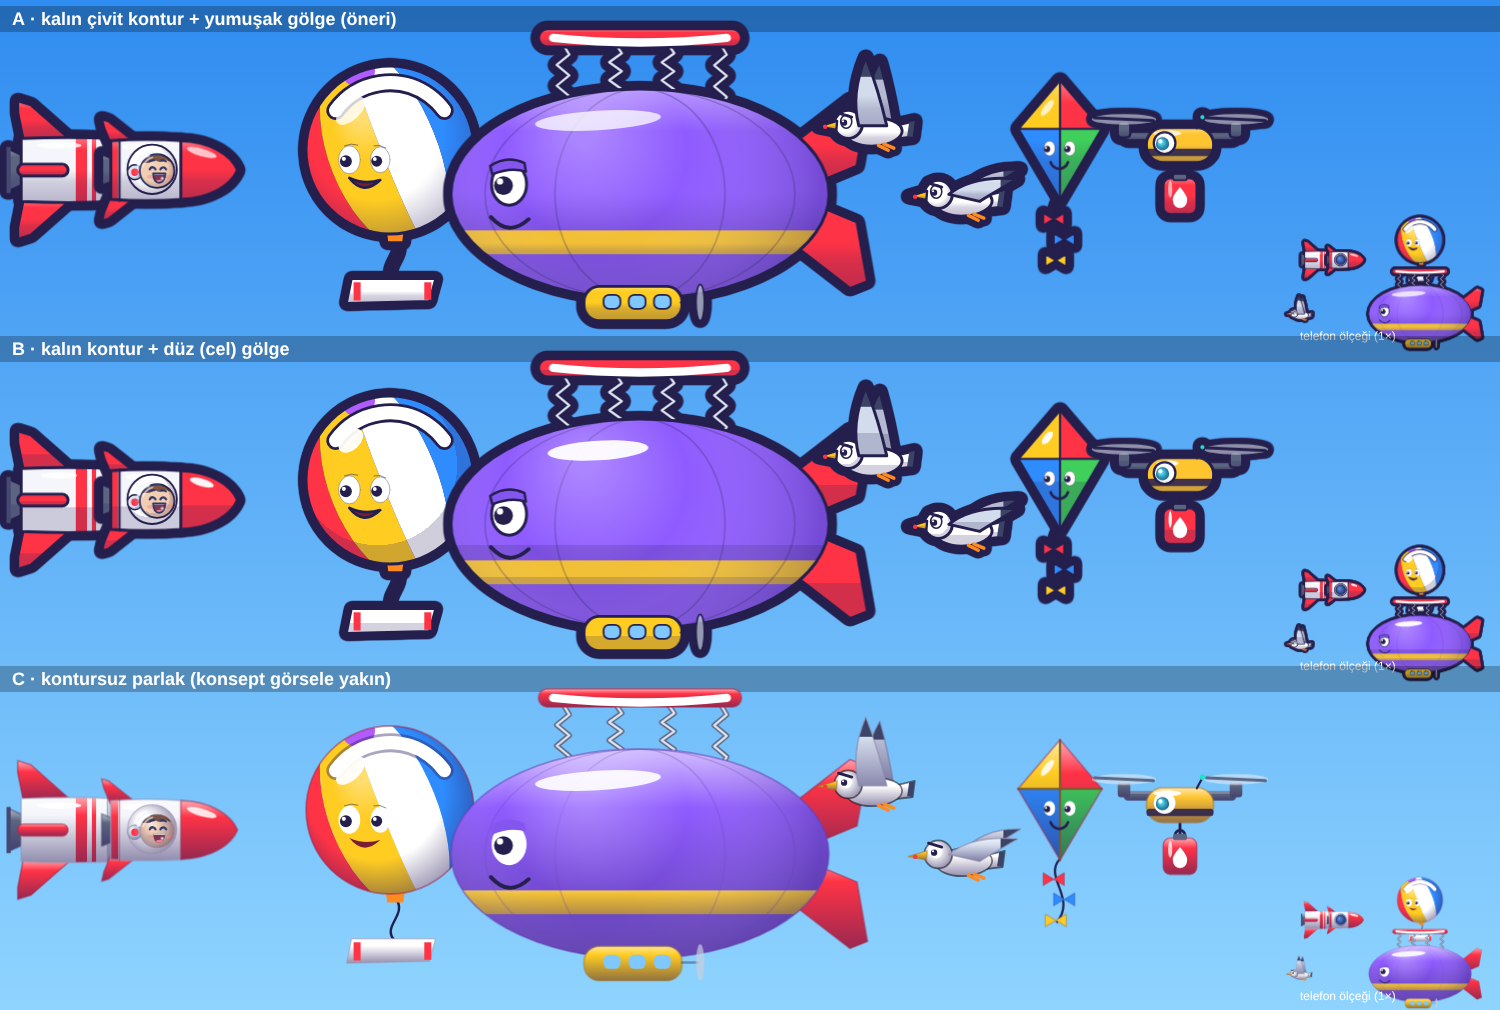
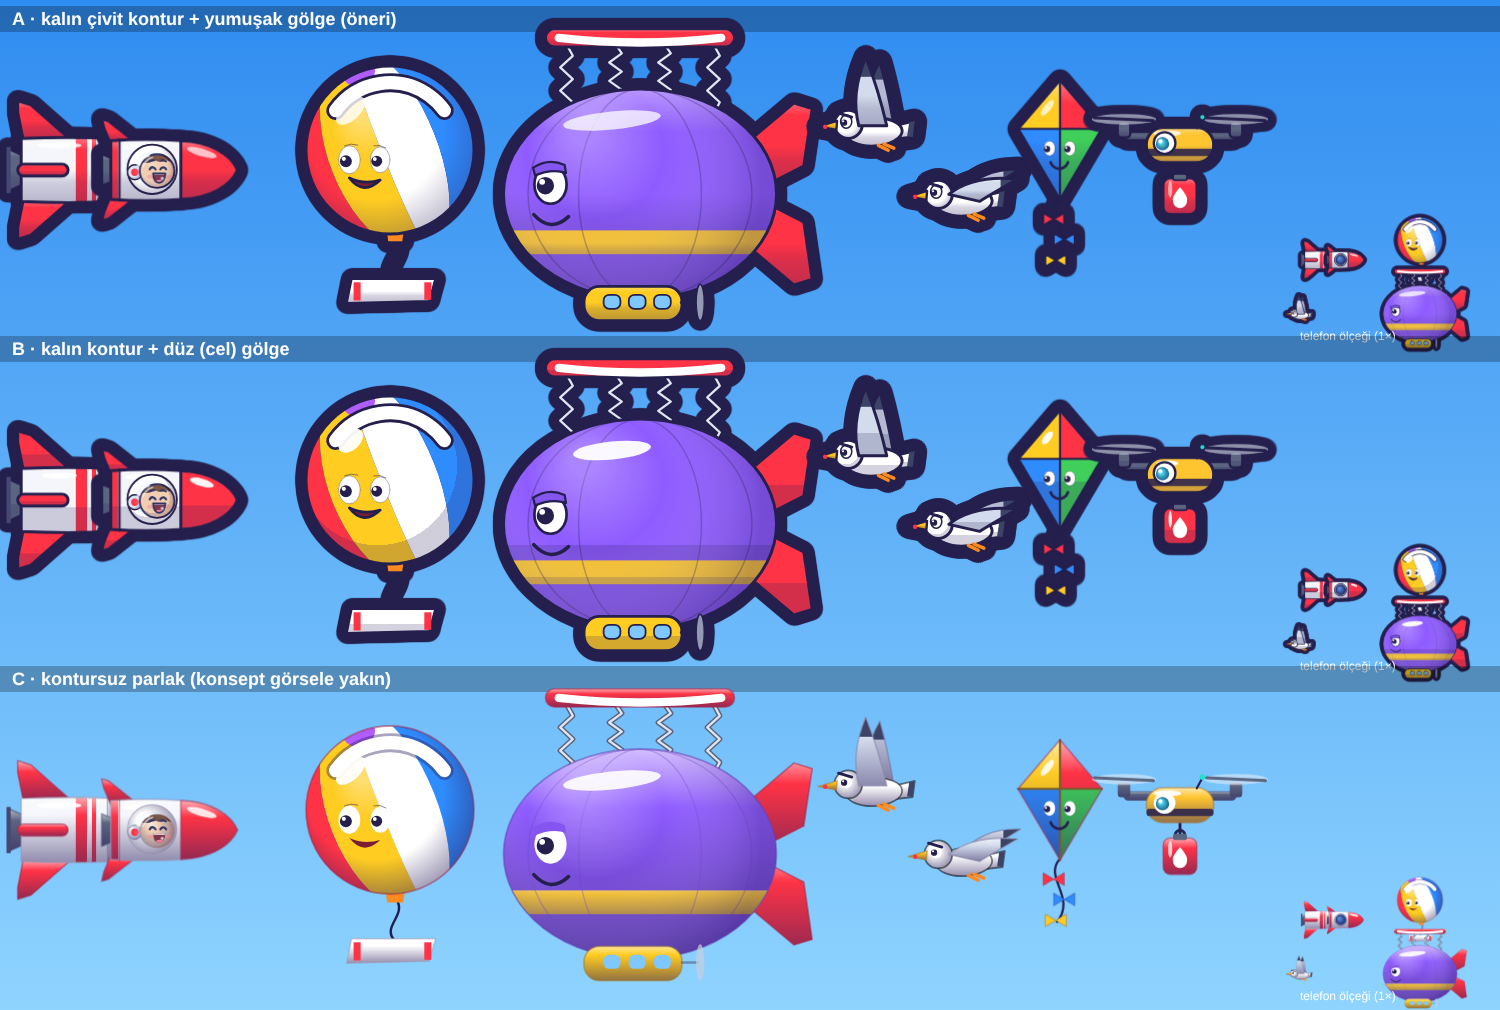
Kararlar: B1 görsel dilim kararları
Claude-Session: https://claude.ai/code/session_01FT8SNz1Hsnax27do6pkEGm

diff --git a/oyun/b1_gorsel/uretim/cizim.js b/oyun/b1_gorsel/uretim/cizim.js
@@ -235,15 +235,15 @@ function balon(c, ifade) {
 
 // ---------------------------------------------------------------- ZEPLİN (trambolin sırtlı, r = 22, burnu sola)
 function zeplin(c, ifade, renk = RENK.mor) {
-  const X = 27, Y = 15, cy = 2;
+  const X = 19.5, Y = 15, cy = 2;
   // kuyruk kanatları
   for (const s of [-1, 1]) {
-    const p = [19, cy + 5 * s, 30, cy + 13.5 * s, 32.5, cy + 12.5 * s, 31, cy + 4 * s, 25, cy + 1.5 * s];
+    const p = [12.5, cy + 5 * s, 22, cy + 13 * s, 24.6, cy + 12.2 * s, 23.4, cy + 4 * s, 18.5, cy + 1.5 * s];
     poli(c, p); dol(c, dikey(c, RENK.kirmizi, cy - 14 * (s < 0), cy + 14 * (s > 0))); cizgi(c, IL, RENK.kirmizi);
   }
   // trambolin ayakları (yaylar)
   c.lineJoin = 'round';
-  for (const x of [-11, -3.5, 4, 11.5]) {
+  for (const x of [-10.5, -3.5, 3.5, 10.5]) {
     const yb = cy - Y * Math.sqrt(1 - (x / X) ** 2) + 1.2;
     c.beginPath(); c.moveTo(x, yb); const n = 6, h = (yb - (-19.4)) / n;
     for (let i = 1; i <= n; i++) c.lineTo(x + (i === n ? 0 : i % 2 ? 0.9 : -0.9), yb - h * i);
@@ -258,10 +258,10 @@ function zeplin(c, ifade, renk = RENK.mor) {
   const g = c.createRadialGradient(-8, cy - 9, 2, -4, cy - 2, X * 1.1); g.addColorStop(0, 'rgba(255,255,255,.25)'); g.addColorStop(0.4, 'rgba(255,255,255,0)'); g.addColorStop(1, 'rgba(42,29,92,.25)'); c.fillStyle = g; c.fillRect(-X, cy - Y, 2 * X, 2 * Y);
   c.restore();
   elips(c, 0, cy, X, Y); cizgi(c, IL, renk);
-  parla(c, -6, cy - 10.5, 9, 1.4, -0.06, 0.75);
+  parla(c, -4, cy - 10.5, 7, 1.3, -0.1, 0.75);
   // trambolin minderi (şekil kodu: üstte beyaz yay şeridi)
-  c.beginPath(); c.roundRect(-14.5, -21.6, 29, 2.6, 1.3); dol(c, dikey(c, RENK.kirmizi, -21.6, -19)); cizgi(c, IL, RENK.kirmizi);
-  c.beginPath(); c.moveTo(-12.4, -20.3); c.quadraticCurveTo(0, -19.0, 12.4, -20.3); c.strokeStyle = '#fff'; c.lineWidth = 1.2; c.lineCap = 'round'; c.stroke();
+  c.beginPath(); c.roundRect(-13.5, -21.6, 27, 2.6, 1.3); dol(c, dikey(c, RENK.kirmizi, -21.6, -19)); cizgi(c, IL, RENK.kirmizi);
+  c.beginPath(); c.moveTo(-11.6, -20.3); c.quadraticCurveTo(0, -19.0, 11.6, -20.3); c.strokeStyle = '#fff'; c.lineWidth = 1.2; c.lineCap = 'round'; c.stroke();
   // gondol
   c.beginPath(); c.roundRect(-8, cy + 13.2, 14, 4.9, 2.2); dol(c, dikey(c, RENK.sari, cy + 13, cy + 18)); cizgi(c, IL, RENK.sari);
   for (const x of [-5.2, -1.6, 2]) { c.beginPath(); c.roundRect(x, cy + 14.4, 2.4, 2, 0.8); dol(c, '#7fc8ff'); cizgi(c, IL * 0.6); }
@@ -269,7 +269,7 @@ function zeplin(c, ifade, renk = RENK.mor) {
   c.beginPath(); c.moveTo(6, cy + 15.5); c.lineTo(8.2, cy + 15.5); cizgi(c, 0.6, RENK.koyuMetal);
   elips(c, 8.6, cy + 15.5, 0.6, 2.6); c.save(); c.globalAlpha = 0.7; dol(c, '#c6cede'); c.restore(); cizgi(c, IL * 0.6);
   // yüz (burun, sola)
-  c.save(); c.translate(-18.5, cy - 1);
+  c.save(); c.translate(-12.6, cy - 1); c.scale(0.92, 0.92);
   const k = v => v;
   if (ifade === 'ezik') {
     c.beginPath(); c.moveTo(-2.6, -0.8); c.quadraticCurveTo(0, 0.8, 2.2, -0.9); c.strokeStyle = INK; c.lineWidth = 0.6; c.lineCap = 'round'; c.stroke();
@@ -397,7 +397,6 @@ function toz(c, kare) {   // sekme tozu / duman puf'u: 4 kare, büyür ve dağı
   c.beginPath(); for (const [x, y, s] of top) { c.moveTo(x + s, y); c.arc(x, y, s, 0, 6.283); } dol(c, '#c8c3ea');
   c.save(); c.clip(); c.beginPath(); for (const [x, y, s] of top) { c.moveTo(x - 0.3 + s * 0.85, y - 0.5); c.arc(x - 0.3, y - 0.5, s * 0.85, 0, 6.283); } dol(c, '#ffffff'); c.restore();
   c.beginPath(); for (const [x, y, s] of top) { c.moveTo(x + s, y); c.arc(x, y, s, 0, 6.283); }
-  if (ST.kontur) { c.strokeStyle = INK; c.lineWidth = 0.35 * a; c.globalCompositeOperation = 'destination-over'; c.stroke(); c.globalCompositeOperation = 'source-over'; }
   c.globalAlpha = 1;
 }
 function yildiz5(c, x, y, R, r, rot) { c.beginPath(); for (let i = 0; i < 10; i++) { const a = rot + i * Math.PI / 5 - Math.PI / 2, q = i % 2 ? r : R; c.lineTo(x + Math.cos(a) * q, y + Math.sin(a) * q); } c.closePath(); }
@@ -447,57 +446,77 @@ function balonParca(c) {
 
 // ---------------------------------------------------------------- ARKA PLAN
 function bulut(c, w, h, tohum, uzak) {
-  const r = rastgele(tohum), top = [];
-  const n = Math.round(w / h * 2.2);
-  for (let i = 0; i < n; i++) {
-    const t = (i + 0.5) / n, x = (t - 0.5) * w * 0.86, tepe = Math.sin(Math.PI * t) ** 0.7;
-    const s = h * (0.28 + 0.34 * tepe) * (0.85 + 0.3 * r());
-    top.push([x, h * 0.5 - s, s]);
+  const r = rastgele(tohum);
+  if (uzak) {   // uzak katman: yassı, lavanta-beyaz şeritler (yakın kümülüslerden farklı)
+    const el = [];
+    for (let i = 0; i < 5; i++) el.push([(i / 4 - 0.5) * w * 0.5 + (r() - 0.5) * w * 0.08, (r() - 0.5) * h * 0.4, w * (0.12 + r() * 0.1), h * (0.22 + r() * 0.16)]);
+    c.beginPath(); for (const [x, y, rx, ry] of el) { c.moveTo(x + rx, y); c.ellipse(x, y, rx, ry, 0, 0, 6.283); }
+    const g = c.createLinearGradient(0, -h * 0.5, 0, h * 0.5); g.addColorStop(0, '#fbf8ff'); g.addColorStop(1, '#d9d2f0'); c.fillStyle = g; c.fill();
+    return;
   }
-  top.push([0, h * 0.25, h * 0.4]);
-  const yol = (dx, dy, k) => { c.beginPath(); for (const [x, y, s] of top) { c.moveTo(x + dx + s * k, y + dy); c.arc(x + dx, y + dy, s * k, 0, 6.283); } c.rect(-w * 0.43, h * 0.15, w * 0.86, h * 0.35); };
-  const golge = uzak ? '#cfe0f6' : '#b9cdf2', isik = uzak ? '#f4f9ff' : '#ffffff';
-  yol(0, 0, 1); dol(c, golge);
-  c.save(); yol(0, 0, 1); c.clip(); yol(-h * 0.04, -h * 0.13, 0.93); dol(c, isik);
-  if (!uzak) { yol(-h * 0.08, -h * 0.2, 0.75); c.save(); c.globalAlpha = 0.6; dol(c, '#ffffff'); c.restore(); }
-  c.restore();
+  const top = [], n = Math.max(3, Math.round(w / h * 1.6));
+  for (let i = 0; i < n; i++) top.push([((i + 0.5) / n - 0.5) * w * 0.8, h * 0.18, h * 0.3 * (0.9 + 0.2 * r())]);
+  for (let i = 0; i < n - 1; i++) { const t = (i + 1) / n, tepe = Math.sin(Math.PI * t) ** 0.6, sx = h * (0.3 + 0.32 * tepe) * (0.85 + 0.3 * r()); top.push([(t - 0.5) * w * 0.8, h * 0.18 - sx * 0.75, sx]); }
+  const yol = (dx, dy, k) => { c.beginPath(); for (const [x, y, s] of top) { c.moveTo(x + dx + s * k, y + dy); c.arc(x + dx, y + dy, s * k, 0, 6.283); } };
+  yol(0, 0, 1); dol(c, '#c4d8f6');
+  c.save(); yol(0, 0, 1); c.clip(); yol(-h * 0.04, -h * 0.12, 0.92); dol(c, '#ffffff');
+  yol(-h * 0.08, -h * 0.2, 0.72); c.save(); c.globalAlpha = 0.55; dol(c, '#ffffff'); c.restore(); c.restore();
 }
-function zemin(c, W) {   // yatayda döşenebilir tarla + tepeler: y 0 = yer; üstte tepeler, altta tarlalar
-  const T = (x, ks) => ks.reduce((s, [a, k, f]) => s + a * Math.sin(2 * Math.PI * k * x / W + f), 0);
+function zemin(c, W) {   // yatayda döşenebilir: tüm dalgalar W'nin tam katı periyotlu
+  const T = (x, ks) => ks.reduce((t, [a, k, f]) => t + a * Math.sin(2 * Math.PI * k * x / W + f), 0);
   const tepe = (ks, taban, renk1, renk2) => {
     c.beginPath(); c.moveTo(0, 5); for (let x = 0; x <= W; x += 1) c.lineTo(x, taban - T(x, ks)); c.lineTo(W, 5); c.closePath();
-    const g = c.createLinearGradient(0, -14, 0, 2); g.addColorStop(0, renk1); g.addColorStop(1, renk2); c.fillStyle = g; c.fill();
-    c.beginPath(); for (let x = 0; x <= W; x += 1) c.lineTo(x, taban - T(x, ks)); c.strokeStyle = ko(renk2, 0.35); c.lineWidth = 0.5; c.stroke();
+    const g = c.createLinearGradient(0, taban - 10, 0, 3); g.addColorStop(0, renk1); g.addColorStop(1, renk2); c.fillStyle = g; c.fill();
+    c.beginPath(); for (let x = 0; x <= W; x += 1) c.lineTo(x, taban - T(x, ks)); c.strokeStyle = ko(renk2, 0.3); c.lineWidth = 0.45; c.stroke();
   };
-  tepe([[6, 2, 0.4], [3, 5, 1.3], [1.5, 9, 2]], -6, '#8fe08a', '#5cc463');
-  // uzak ağaçlar ve ev
-  const r = rastgele(5);
-  for (let i = 0; i < 9; i++) {
-    const x = (i + r() * 0.6) * W / 9, y = -T(x, [[3, 3, 0.2], [1.2, 7, 1]]) - 1.2;
-    c.fillStyle = '#7a4a2a'; c.fillRect(x - 0.3, y - 0.2, 0.6, 2.2);
-    daire(c, x, y - 1.6, 1.8 + r()); c.fillStyle = '#2fa64a'; c.fill(); c.strokeStyle = '#1d6b36'; c.lineWidth = 0.35; c.stroke();
+  const agacKume = (x, y, n, r) => {
+    for (let i = 0; i < n; i++) { const dx = (i - (n - 1) / 2) * r * 1.3, dy = (i % 2) * r * 0.35, rr = r * (0.85 + 0.3 * ((i * 7) % 3) / 2);
+      c.fillStyle = '#7a5a3a'; c.fillRect(x + dx - 0.25, y + dy - 0.2, 0.5, 1.6);
+      daire(c, x + dx, y + dy - rr * 0.9, rr); c.fillStyle = '#6fa868'; c.fill(); c.strokeStyle = '#3f6f48'; c.lineWidth = 0.35; c.stroke();
+      daire(c, x + dx - rr * 0.3, y + dy - rr * 1.15, rr * 0.4); c.fillStyle = '#8fc082'; c.fill(); }
+  };
+  tepe([[6, 2, 0.4], [3, 5, 1.3], [1.5, 9, 2]], -6, '#b4d7a2', '#8fbf84');
+  const r = rastgele(5), arka = [[3, 3, 0.2], [1.2, 7, 1]];
+  for (let i = 0; i < 6; i++) { const x = (i + 0.2 + r() * 0.6) * W / 6; agacKume(x, -T(x, arka) - 0.6, 2 + (i % 3), 1.4 + r() * 0.5); }
+  const ex_ = W * 0.62, ey_ = -T(W * 0.62, arka) - 0.6;
+  c.fillStyle = '#e8846f'; c.fillRect(ex_ - 3, ey_ - 3.6, 6, 3.6); c.strokeStyle = INK; c.lineWidth = 0.3; c.strokeRect(ex_ - 3, ey_ - 3.6, 6, 3.6);
+  poli(c, [ex_ - 3.6, ey_ - 3.5, ex_, ey_ - 6.6, ex_ + 3.6, ey_ - 3.5]); dol(c, '#9a5a48'); cizgi(c, 0.3);
+  c.fillStyle = '#fff'; c.fillRect(ex_ - 0.8, ey_ - 2.4, 1.6, 2.4);
+  tepe([[2.2, 3, 0.2], [1.2, 7, 1], [0.5, 13, 0.3]], 0, '#a2cf92', '#7fb57a');
+  // tarlalar: dalgalı sınırlı şeritler, her şerit eğri ayraçlarla parsellere bölünür
+  const renkler = ['#a3c98f', '#c3d39a', '#d9d0a0', '#94bf88', '#b9cf9c', '#cfc795'];
+  const sinir = (k, x) => { let y = 1.5; for (let i = 0; i < k; i++) y += 4 + i * 1.7; return y + (k ? 1.6 * Math.sin(2 * Math.PI * (k % 3 + 1) * x / W + k) : 0); };
+  for (let k = 0; k < 9; k++) {
+    const n = 3 + (k % 3), ofs = r();
+    for (let p = 0; p < n; p++) {
+      const xa = ((p + ofs) / n) * W, xb = ((p + 1 + ofs) / n) * W;
+      c.beginPath();
+      for (let x = xa; x <= xb + 0.01; x += 2) c.lineTo(x, sinir(k, x));
+      for (let x = xb; x >= xa - 0.01; x -= 2) c.lineTo(x + 1.5 * Math.sin((x - xb) * 0.2 + k), sinir(k + 1, x));
+      c.closePath(); c.fillStyle = renkler[(k * 2 + p) % renkler.length]; c.fill();
+      // sürüm izleri
+      c.save(); c.clip(); c.strokeStyle = 'rgba(70,110,60,.18)'; c.lineWidth = 0.3;
+      for (let j = 1; j < 6; j++) { c.beginPath(); for (let x = xa - 2; x <= xb + 2; x += 3) c.lineTo(x, lerp(sinir(k, x), sinir(k + 1, x), j / 6)); c.stroke(); }
+      c.restore();
+      if (xb > W) { c.save(); c.translate(-W, 0); c.beginPath(); for (let x = xa; x <= xb + 0.01; x += 2) c.lineTo(x, sinir(k, x)); for (let x = xb; x >= xa - 0.01; x -= 2) c.lineTo(x + 1.5 * Math.sin((x - xb) * 0.2 + k), sinir(k + 1, x)); c.closePath(); c.fillStyle = renkler[(k * 2 + p) % renkler.length]; c.fill(); c.restore(); }
+    }
+    c.beginPath(); for (let x = 0; x <= W; x += 2) c.lineTo(x, sinir(k + 1, x)); c.strokeStyle = '#7fa871'; c.lineWidth = 0.5; c.stroke();
   }
-  const ex = W * 0.62, ey = -T(W * 0.62, [[3, 3, 0.2], [1.2, 7, 1]]) - 0.6;
-  c.fillStyle = '#ff5a4a'; c.fillRect(ex - 3, ey - 3.6, 6, 3.6); c.strokeStyle = INK; c.lineWidth = 0.3; c.strokeRect(ex - 3, ey - 3.6, 6, 3.6);
-  poli(c, [ex - 3.6, ey - 3.5, ex, ey - 6.6, ex + 3.6, ey - 3.5]); dol(c, '#8a3a2a'); cizgi(c, 0.3);
-  c.fillStyle = '#fff'; c.fillRect(ex - 0.8, ey - 2.4, 1.6, 2.4);
-  tepe([[2.2, 3, 0.2], [1.2, 7, 1], [0.5, 13, 0.3]], 0, '#6bd36a', '#3fb34f');
-  // tarlalar (yer altı bandı, perspektifsiz şeritler)
-  const renkler = ['#5cc463', '#8fd65a', '#ffd45a', '#4fb85a', '#b9e06a', '#f2c14e'];
-  let y = 1.5, sat = 0;
-  while (y < 90) {
-    const h = 3 + sat * 1.4; let x = 0, j = sat * 3;
-    while (x < W) { const w = W / (4 + (sat % 3)); c.fillStyle = renkler[(j++) % renkler.length]; c.fillRect(x, y, w + 0.2, h + 0.2);
-      c.strokeStyle = 'rgba(40,90,40,.25)'; c.lineWidth = 0.3; for (let k = 1; k < h / 1.2; k++) { c.beginPath(); c.moveTo(x, y + k * 1.2); c.lineTo(x + w, y + k * 1.2); c.stroke(); }
-      x += w; }
-    c.fillStyle = '#3f9a45'; c.fillRect(0, y + h - 0.3, W, 0.6);
-    y += h; sat++;
-  }
+  // yol (kıvrımlı, döşenebilir)
+  const yol = x => 16 + 5 * Math.sin(2 * Math.PI * 2 * x / W + 0.7) + 2 * Math.sin(2 * Math.PI * 5 * x / W);
+  c.beginPath(); for (let x = 0; x <= W; x += 1) c.lineTo(x, yol(x)); c.strokeStyle = '#b8a77f'; c.lineWidth = 3.2; c.stroke(); c.strokeStyle = '#e9dfc4'; c.lineWidth = 2.4; c.stroke();
+  // tarla aralarında ağaç kümeleri
+  for (let i = 0; i < 5; i++) { const x = (i + 0.5) * W / 5 + 7, k = 2 + (i % 4) * 2; agacKume(x, sinir(k, x) + 0.6, 2 + (i % 2), 1.5); }
 }
-function uzakTepe(c, W) {
-  const T = (x) => 5 * Math.sin(2 * Math.PI * 2 * x / W + 1) + 3 * Math.sin(2 * Math.PI * 5 * x / W) + 1.5 * Math.sin(2 * Math.PI * 11 * x / W + 2);
-  c.beginPath(); c.moveTo(0, 30); for (let x = 0; x <= W; x += 1) c.lineTo(x, -T(x) - 2); c.lineTo(W, 30); c.closePath();
-  const g = c.createLinearGradient(0, -12, 0, 20); g.addColorStop(0, '#9fd0e8'); g.addColorStop(1, '#bfe6f2'); c.fillStyle = g; c.fill();
+function lerp(a, b, t) { return a + (b - a) * t; }
+function uzakTepe(c, W) {   // soluk mor-yeşil tepe siluetleri (deniz değil); alt kısım sahnede sisle zemine erir
+  const sirt = (ks, taban, ust, alt) => {
+    const T = (x) => ks.reduce((t, [a, k, f]) => t + a * Math.sin(2 * Math.PI * k * x / W + f), 0);
+    c.beginPath(); c.moveTo(0, 30); for (let x = 0; x <= W; x += 1) c.lineTo(x, taban - T(x)); c.lineTo(W, 30); c.closePath();
+    const g = c.createLinearGradient(0, taban - 12, 0, 26); g.addColorStop(0, ust); g.addColorStop(1, alt); c.fillStyle = g; c.fill();
+  };
+  sirt([[6, 2, 1], [3, 5, 0], [1.5, 11, 2]], -8, '#b3a9da', '#c9c8e0');
+  sirt([[4, 3, 0.4], [2, 7, 1.1], [1, 13, 0.2]], -1, '#9fbfa6', '#bcd0c0');
 }
 function rampa(c) {   // rampa: ray (−76.8, 0) → (0, 60) dünya; sprite'ta y aşağı
   const bx = -76.8;
@@ -523,39 +542,40 @@ function rampa(c) {   // rampa: ray (−76.8, 0) → (0, 60) dünya; sprite'ta y
 // ---------------------------------------------------------------- SPRITE TANIMLARI
 // x0,y0,x1,y1: sınır (birim). d: yoğunluk çarpanı. ol: dış kontur (birim; 0 = yok).
 const SPRITE = [];
-const ekle = (ad, x0, y0, x1, y1, ciz, o = {}) => SPRITE.push({ ad, x0, y0, x1, y1, ciz, d: o.d ?? 1, ol: o.ol ?? 0.9 });
+const OLPX = 2.5, KN = 1.9, ol = (m = 1) => OLPX / (KN * m);   // dış kontur (birim) = 2,5 px / (1,9 px/birim × görüntüleme çarpanı)
+const ekle = (ad, x0, y0, x1, y1, ciz, o = {}) => SPRITE.push({ ad, x0, y0, x1, y1, ciz, d: o.d ?? 1, ol: o.ol ?? ol(1), olRenk: o.olRenk || null });
 ekle('roket_ust', -7.4, -7.8, 13, 7.8, roketUst);
 ekle('roket_alt', -21, -10.4, -4.6, 10.4, roketAlt);
 ekle('cam', -2.5, -2.8, 3, 2.6, camParlak, { ol: 0 });
 for (const f of ['notr', 'heyecan', 'saskin', 'kararli']) {
   ekle('pilot_' + f, -2.6, -2.6, 2.6, 2.6, c => pilotKafa(c, 2.35, f, false), { ol: 0, d: 1.5 });
-  ekle('portre_' + f, -17, -23, 17, 16, c => pilotKafa(c, 15, f, true), { ol: 0.9 });
+  ekle('portre_' + f, -17.5, -23.5, 17.5, 16.5, c => pilotKafa(c, 15, f, true), { ol: ol(1.75 / 1.9) });
 }
 for (let i = 0; i < 4; i++) { ekle('alev_' + i, -13, -4, 1, 4, c => alev(c, i, false), { ol: 0 }); ekle('alev_dalis_' + i, -21, -5, 1, 5, c => alev(c, i, true), { ol: 0 }); }
 ekle('balon', -13, -13, 13, 23, c => balon(c, 'normal'));
 ekle('balon_ezik', -13, -13, 13, 23, c => balon(c, 'ezik'));
-for (const f of ['normal', 'ezik', 'yama']) ekle('zeplin_' + f, -28.5, -23, 33.5, 21, c => zeplin(c, f));
-for (const f of ['yukari', 'orta', 'asagi', 'sersem']) ekle('marti_' + f, -8, -11, 10.5, 8.6, c => marti(c, f));
+for (const f of ['normal', 'ezik', 'yama']) ekle('zeplin_' + f, -21, -23, 25.5, 21, c => zeplin(c, f));
+for (const f of ['yukari', 'orta', 'asagi', 'sersem']) ekle('marti_' + f, -8, -11, 10.5, 8.6, c => marti(c, f), { ol: ol(0.85) });
 for (const [f, k] of [['a', 'a'], ['b', 'b'], ['saskin', 'a']]) ekle('ucurtma_' + f, -6.6, -9.2, 6.6, 18.6, c => ucurtma(c, f === 'saskin' ? 'saskin' : 'normal', k));
 ekle('dron_a', -13, -5.6, 13, 9.8, c => dron(c, 'a'));
 ekle('dron_b', -13, -5.6, 13, 9.8, c => dron(c, 'b'));
 ekle('dron_bos', -13, -5.6, 13, 2.6, c => dron(c, 'a', false));
 ekle('bidon', -2.8, -1, 2.8, 5.6, c => bidon(c, 0, 0));
-for (let i = 0; i < 4; i++) ekle('toz_' + i, -13, -11, 13, 11, c => toz(c, i), { ol: 0 });
-for (let i = 0; i < 3; i++) ekle('yildiz_' + i, -11.5, -11.5, 11.5, 11.5, c => yildizPatlama(c, i), { ol: i === 1 ? 0.6 : 0 });
+for (let i = 0; i < 4; i++) ekle('toz_' + i, -13, -11, 13, 11, c => toz(c, i), { ol: ol(0.9) });
+for (let i = 0; i < 3; i++) ekle('yildiz_' + i, -11.5, -11.5, 11.5, 11.5, c => yildizPatlama(c, i), { ol: i === 1 ? ol(1.1) : 0 });
 ekle('parilti', -2.8, -2.8, 2.8, 2.8, parilti, { ol: 0 });
-ekle('tuy', -2.8, -1.4, 2.6, 1.3, tuy, { ol: 0.4 });
-ekle('balon_parca', -2.2, -1.6, 2.4, 1.3, balonParca, { ol: 0 });
+ekle('tuy', -2.8, -1.4, 2.6, 1.3, tuy);
+ekle('balon_parca', -2.2, -1.6, 2.4, 1.3, balonParca, { ol: ol(1.2) });
 ekle('ses_konisi', -17, -11.5, 1.5, 11.5, sesKonisi, { ol: 0 });
-ekle('jeton', -2.6, -2.6, 2.6, 2.6, jeton, { ol: 0.5 });
-ekle('parasut', -8, -16, 8, 0.5, parasut, { ol: 0.7 });
-ekle('bulut_0', -30, -17, 30, 9, c => bulut(c, 60, 16, 3, false), { ol: 0, d: 0.6 });
-ekle('bulut_1', -22, -15, 22, 8, c => bulut(c, 44, 14, 8, false), { ol: 0, d: 0.6 });
-ekle('bulut_2', -38, -19, 38, 10, c => bulut(c, 76, 18, 21, false), { ol: 0, d: 0.6 });
-ekle('bulut_uzak_0', -40, -11, 40, 6, c => bulut(c, 80, 10, 5, true), { ol: 0, d: 0.35 });
-ekle('bulut_uzak_1', -30, -10, 30, 6, c => bulut(c, 60, 9, 13, true), { ol: 0, d: 0.35 });
+ekle('jeton', -2.6, -2.6, 2.6, 2.6, jeton, { ol: ol(1.1) });
+ekle('parasut', -8, -16, 8, 0.5, parasut);
+ekle('bulut_0', -31, -19, 31, 10, c => bulut(c, 60, 16, 3, false), { ol: 1.2 / 1.9, olRenk: '#a8c8f0', d: 0.6 });
+ekle('bulut_1', -23, -16.5, 23, 9, c => bulut(c, 44, 14, 8, false), { ol: 1.2 / 1.9, olRenk: '#a8c8f0', d: 0.6 });
+ekle('bulut_2', -37.5, -21, 37.5, 11, c => bulut(c, 76, 18, 21, false), { ol: 1.2 / 1.9, olRenk: '#a8c8f0', d: 0.6 });
+ekle('bulut_uzak_0', -39, -6, 39, 6, c => bulut(c, 80, 10, 5, true), { ol: 0, d: 0.35 });
+ekle('bulut_uzak_1', -30, -5.5, 30, 5.5, c => bulut(c, 60, 9, 13, true), { ol: 0, d: 0.35 });
 ekle('zemin', 0, -16, 200, 90, c => zemin(c, 200), { ol: 0, d: 0.5 });
 ekle('uzak_tepe', 0, -14, 300, 30, c => uzakTepe(c, 300), { ol: 0, d: 0.3 });
-ekle('rampa', -80, -60, 4, 2.5, rampa, { ol: 0, d: 0.6 });
+ekle('rampa', -80, -61, 4, 2.5, rampa, { d: 0.6 });
 
 if (typeof module !== 'undefined') module.exports = { SPRITE, ST, INK };

diff --git a/oyun/b1_gorsel/uretim/uretici.html b/oyun/b1_gorsel/uretim/uretici.html
@@ -17,7 +17,7 @@ function spriteCiz(s, D) {
   if (ol > 0 && ST.kontur) {
     const B = document.createElement('canvas'); B.width = w; B.height = h; const b = B.getContext('2d');
     for (const [n, k] of [[32, 1], [16, 0.66], [8, 0.33]]) for (let i = 0; i < n; i++) { const t = i / n * 6.2832; b.drawImage(A, Math.cos(t) * ol * k, Math.sin(t) * ol * k); }
-    b.globalCompositeOperation = 'source-in'; b.fillStyle = INK; b.fillRect(0, 0, w, h);
+    b.globalCompositeOperation = 'source-in'; b.fillStyle = s.olRenk || INK; b.fillRect(0, 0, w, h);
     b.globalCompositeOperation = 'source-over'; b.drawImage(A, 0, 0); out = B;
   }
   return { c: out, w, h, ax: pad - s.x0 * d, ay: pad - s.y0 * d, d };

diff --git a/oyun/b1_gorsel/uretim/uret.py b/oyun/b1_gorsel/uretim/uret.py
@@ -39,6 +39,10 @@ def main():
     yaz(ONIZ / "kontak.png", r["kontak"])
     yaz(ONIZ / "karsilastirma_tarz.png", r["karsilastir"])
     yaz(ONIZ / "karsilastirma_pilot.png", r["pilot"])
+    # sahnenin sekme değerleri B0 şartnamesinden (oyun/b0/ayar.json, TIPLER); zeplin k en çok 0,92
+    tip = json.loads((KOK.parent / "b0" / "ayar.json").read_text())["TIPLER"]
+    b0 = {ad: {"r": tip[ad]["r"], "aci": tip[ad]["aci"], "k": min(tip[ad]["k"], 0.92) if ad == "zeplin" else tip[ad]["k"]} for ad in ("balon", "zeplin")}
+    (SPRITE / "b0_tipler.json").write_text(json.dumps(b0, ensure_ascii=False))
     toplam = sum(f.stat().st_size for f in SPRITE.iterdir())
     print(f"{len(r['atlas']['json']['sprite'])} sprite, {len(r['atlas']['png'])} atlas sayfası, sprite klasörü {toplam/1024:.0f} KB")
 

diff --git a/oyun/KARARLAR.md b/oyun/KARARLAR.md
@@ -35,3 +35,4 @@ Ajanlar bu dosyayı kesin kabul eder; değiştirmek için kullanıcıya sorulur.
 - "Seni durduran şey" metinleri: **öğretici** ton.
 - (B0 denetimi sonrası, kullanıcı onaylı) Abartılı bitiş: mesafe rekoru %10'dan fazla aşılınca (ilk tur hariç) ya da tur mesafesi son 3 turun ortalamasının yarısından kısaysa; diğer bitişler sakin. Rakip zeplini B0'da yok, kalkış primi kalır (S1 b). Dron halkası yalnız dron rotadaysa açılır.
 - (Ses, kullanıcı seçimi, 2. seçim) Seçimler `oyun/ses/SECIM.md`: müzik A, motor tutuşma c, motor uçuş b (puansız), trambolin c, martı c, balon c, kademe ayrılma i, dalış b, mükemmel e, ses duvarı b, jeton d, tık a, kart satın alma a, son şans b.
+- (B1 görsel dilimi, kullanıcı onaylı) Roket boyu kararı Claude'a bırakıldı: **kamera yakınlaşır** (B1'de; ekran yoğunluğu/ileriyi görme sim'de yeniden ölçülecek). Arayüz onaylı konsept düzeni + küçük pilot rozeti. Pilot: açık vizörlü mevcut maskot. Engel yüzleri: balon, zeplin, uçurtma, dron, martı hepsinde yüz.
